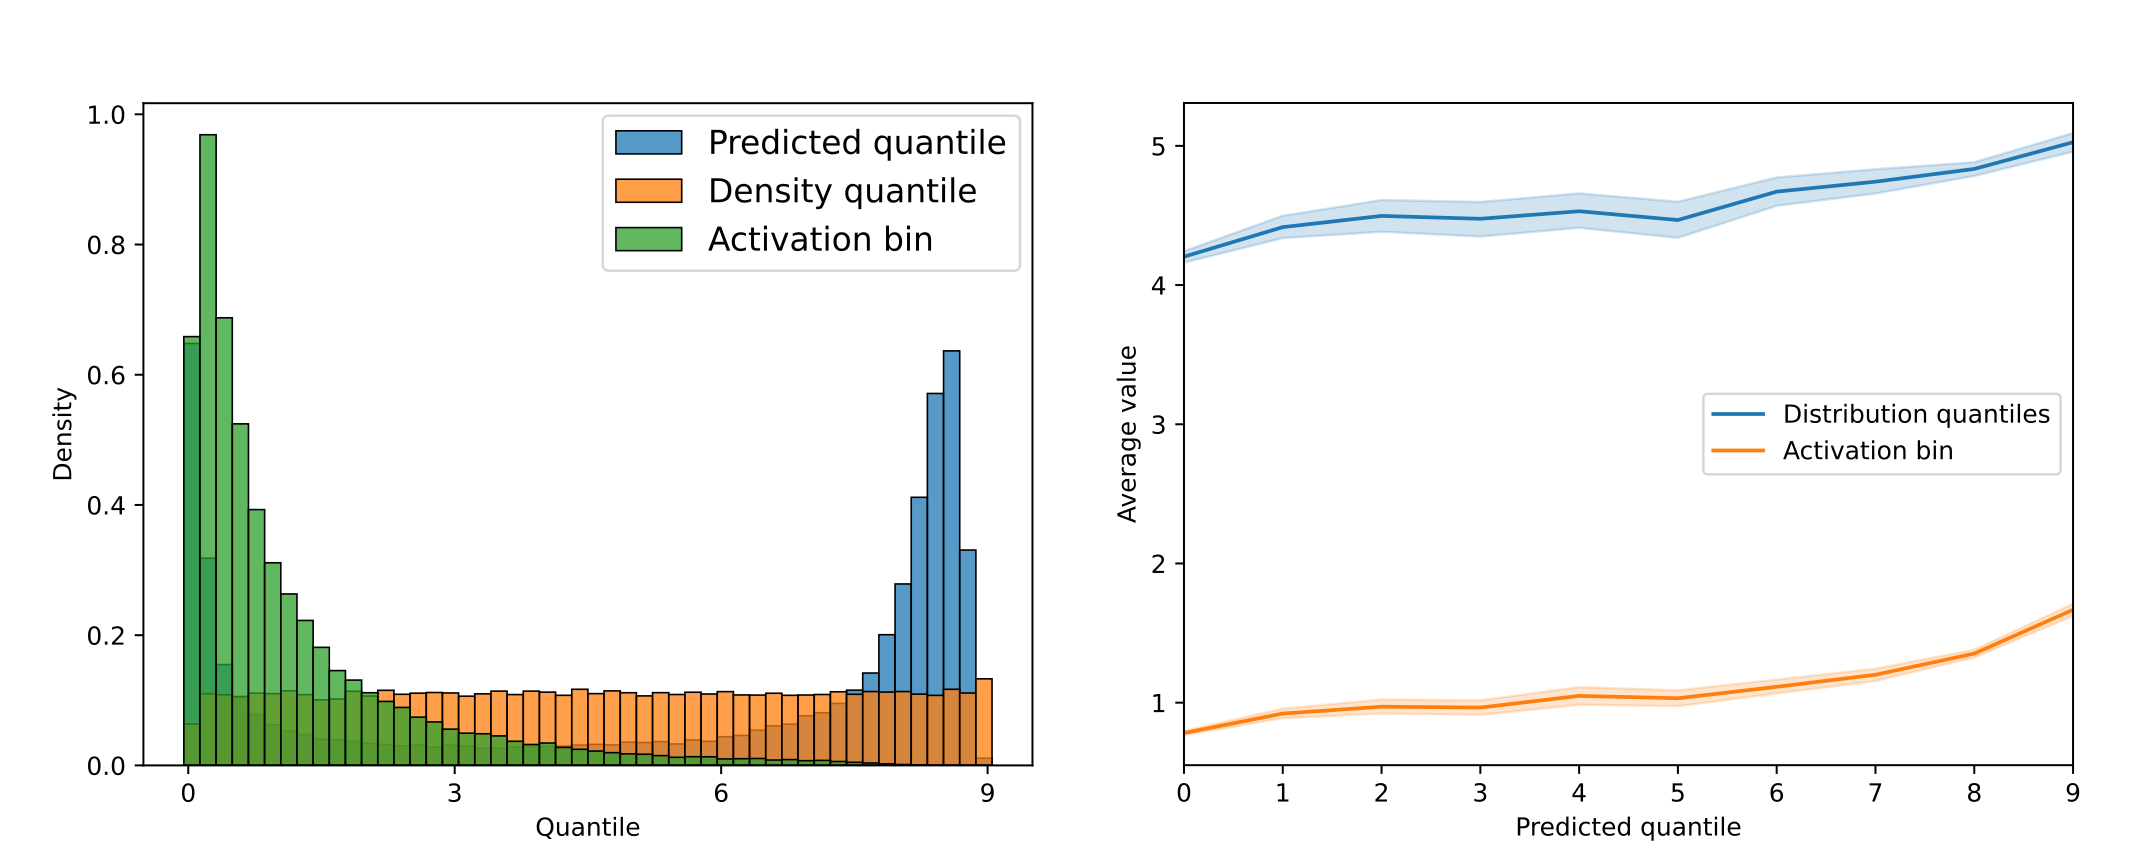
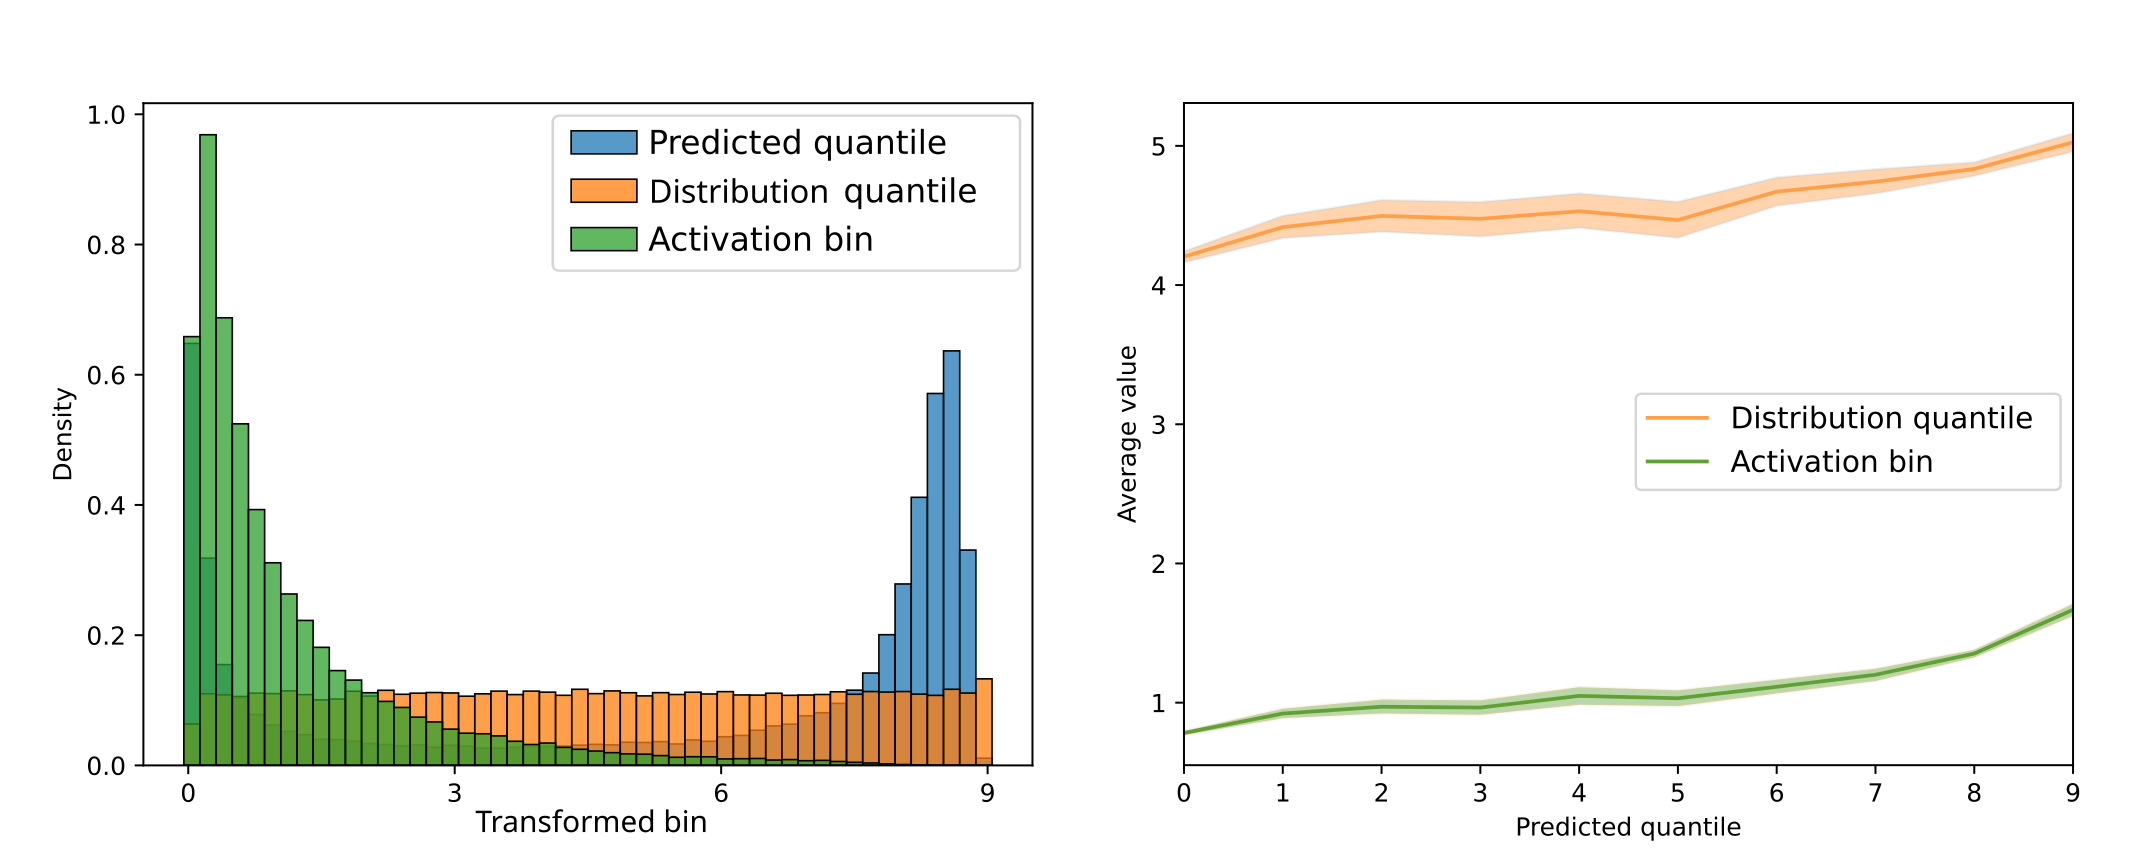
Updated with suggestions

diff --git a/content-blog/generating-text-using-nl-to-simulate-activations.md b/content-blog/generating-text-using-nl-to-simulate-activations.md
@@ -28,6 +28,10 @@ Unfortunately, the SAE itself cannot perfectly reconstruct the activations of th
 
 # How many latents are needed to recover the model behavior?
 
+- We aim to find a lower bound on what fraction of latents need to be recovered for near-SAE-g.t. performance
+- We find 50% of most active latents or 90% of random active latents give a good approximation of SAE g.t.
+- With current techniques, we found that this level of recall is difficult to achieve without swamping the signal with false positives, see section "Correctly identifying non-active latents"
+
 Adding a single SAE to the model already drops its performance significantly. [Gao et. al (2024)](https://arxiv.org/pdf/2406.04093) showed that the increase in loss from patching in their SAE - with 16 million latents - on GPT-4 is equivalent to having trained it with 90\% less compute. In this section we will consider the model with the SAE as the "ceiling" performance, assuming that we already are adding the SAE to the model and measuring how many of the active latents we need to correctly identify to recover the performance of the "patched" model.
 
 To measure this we collect the next-token predictions of Gemma 2 9b over a set of 100 sequences of 64 tokens each. For each token, we also compute the reconstructed activations from the SAE on the target layer - layer 11 in our case - and patch them back into the model, collecting the resulting next-token predictions. We then measure the cross-entropy loss of these predictions, as well as their KL divergence with respect to the original "clean" predictions. We consider these numbers to be our "full SAE" ceiling. We then repeat this process using only a fixed number of active latents, which we choose either from the top active latents or we sample from the whole distribution. Results are shown in Figure 1.
@@ -39,6 +43,11 @@ _Figure 1: KL divergence and CE loss for different fractions of correctly identi
 
 # Using latent interpretations to predict if they are active
 
+- We aim to find what is the recall of current interpretations to identify active latents, and what factors influence it.
+- We find that that the model is able to identify 50% of the most active latents, and that the recall is higher for more active latents.
+- This is sufficient to generate "coherent" text, but model's performance is significantly degraded.
+- Without significantly cheating, see next sections, this task is still out of reach.
+
 Knowing that it is possible for a model to "work" even when we don't correctly identify all the active latents, we focused on understanding how many of those latents could we correctly identify using our current interpretation approach. In our most [recent work](https://arxiv.org/pdf/2410.13928), we showed that our interpretations, when used to distinguish activating and non-activating examples, had a balanced accuracy of 76%, but that the accuracy could drop below 40% in the case of less active latents.
 
 We tasked Llama 3.1 8b with predicting if a certain latent is active or not for the last token of a sequence, given the interpretation of the latent. We sample these sequences from RedPajama-V2, and we always select sequences with 32 tokens, although we find that these results do not significantly change as long as the sequence is long enough. For each sequence, all the active latents and 1000 randomly selected inactive latents are shown to the model. Consistent with our previous results, we find that the model identifies the active latents more accurately if their activations are higher- see Figure 2 first panel. In this panel we compare interpretations that were generated using the highest activating contexts against interpretations that were generated by sampling from the different quantiles as described in the article above.
@@ -48,7 +57,7 @@ _Figure 2: Left panel: Accuracy on active latents as a function of their activat
 
 One problem with accuracy is that it is an all-or-nothing metric. If the model does not predict the activating latents exactly right, but predicts latents that are "similar" to the true active latents, we would like to capture that. We propose to measure the cosine similarity between the decoder directions of the predicted latents and the ground truth active latents. In order to do this, though, we need a way to "match" the predicted latents to the ground truth ones. We use the [Hungarian algorithm](https://en.wikipedia.org/wiki/Hungarian_algorithm) for this task, which yields the matching that maximizes the average cosine similarity between predicted and ground truth decoder directions. Intuitively, this is the most "forgiving" way of evaluating the model, and the same algorithm [has been used](https://arxiv.org/abs/2005.12872) to train neural networks to detect objects in images, where predicted bounding boxes need to be matched up with ground truth bounding boxes. The left panel of Figure 2 shows a histogram of the alignment, as measured by the average cosine similarity between the decoder directions of the predicted active latents and the ground truth active latents, for both interpretations based on the top most activating contexts (red) and interpretations based on every decile of the activation distribution (blue). As a baseline, we also show the distribution of the cosine similarities between randomly selected latents and the ground truth active latents (green).
 
-We investigated different ways to improve the fraction of correctly identified active latents: we used Llama 3.1 70b instead of Llama 3.1 8b, and found while Llama 70b was better at identifying the active latents, on average it still got less than 50\% of the active latents right. We also tried finetuning Llama 3.1 8b to predict active latents given interpretations. We find that while finetuning significantly improved the accuracy on non-active latents, it decreased the accuracy on active latents. This is a research direction that we want to explore more in the future, because different mixtures of finetuning data might improve the results. Perhaps the most surprising result is that giving the model access to either the fuzzing score or the detection score improves the accuracy on the active latents the most, moreso than using the 70b model, although this decreases the accuracy on the non-active latents compared with the 70b model, but not when compared with the Llama 3.1 8b model. 
+We investigated different ways to improve the fraction of correctly identified active latents: we used Llama 3.1 70b instead of Llama 3.1 8b, and found while Llama 70b was better at identifying the active latents, on average it still got less than 50\% of the active latents right. We also tried finetuning Llama 3.1 8b to predict active latents given interpretations. We find that while finetuning significantly improved the accuracy on non-active latents, it decreased the accuracy on active latents. This is a research direction that we want to explore more in the future, because different mixtures of finetuning data might improve the results. Perhaps the most surprising result is that giving the model access to either the fuzzing score or the detection score improves the accuracy on the active latents the most, more so than using the 70b model, although this decreases the accuracy on the non-active latents compared with the 70b model, but not when compared with the Llama 3.1 8b model. 
 
 | Method | Active Latent Accuracy (Recall) | F1 | AUC  | 
 |---------------|---------------------------|---------------------------|----------------|
@@ -72,16 +81,21 @@ Due to the fact that, even on this easier task, we are not able to have a satisf
 
 # Predicting the activation value with latent interpretations
 
+- We aim to find how well the model can predict the activation value of a latent given its interpretation.
+- Current techniques lead to very imbalanced predictions, which don't follow the target distributions.
+- There is a slight positive correlation between the predicted activation value and the activation value of the latent.
+
 The standard way people evaluate interpretations of latents is by doing [simulation](https://openaipublic.blob.core.windows.net/neuron-explainer/paper/index.html), where the model is tasked to predict the activation of the latent at different token positions and then the correlation between those values and the ground truth activations is used as a proxy for how good the interpretation is. We know from these results that models have a hard time predicting the activation values. Here we focus on the activation value at the last token of a sequence, and evaluate only the latents that are active. Once again this is "cheating", because we are only using latents that we know are active, but at this point we are just focusing on the feasibility of this simpler task rather than that of the real word scenario. 
 
-In this task we ask the model to predict a number, from 0 to 9, indicating how strongly the selected token is active, given the interpretation of the latent. We explicitly tell the model that the latent is active, but we show an example where the value is 0, due to rounding down. We compare the most likely number according the model (the [mode](https://en.wikipedia.org/wiki/Mode_(statistics))) for each latent with two different distributions: its activation value, un-normalized, its decile in the activation distribution. We find that the model predicts low and high values more frequently than the other values. We also compute the probability assigned to each of the 10 numbers and compute the mean prediction, and find that the distribution of means is very similar to the distribution of the modes. The distribution of the means is shown in blue in the left panel of Figure 4, and compared with the distribution of normalized activation values (green), and the distribution of the activation quantiles (orange). We observe that higher predicted values correspond to higher activation values and activation quantiles- see the right panel of Figure 4- but the spread is so large that it does not seem possible to reliably predict the activation value of a latent using the interpretations. In Table 2, we show that correlation between the predicted value and the activation value of the latent and the activation quantile is low for all the methods.
+In this task we ask the model to predict a number, from 0 to 9, indicating how strongly the selected token is active, given the interpretation of the latent. We explicitly tell the model that the latent is active. We compare the most likely number according the model (the [mode](https://en.wikipedia.org/wiki/Mode_(statistics))) for each latent with two different distributions: its activation value, and its quantile in the activation distribution. We find that the model predicts low and high values more frequently than the other values. We also compute the probability assigned to each of the 10 numbers and compute the mean prediction, and find that the distribution of means is very similar to the distribution of the modes. 
 
+The distribution of the means is shown in blue in the left panel of Figure 4, and compared with the distribution of normalized activation values (green), and the distribution of the activation quantiles (orange). We observe that higher predicted values correspond to higher activation values and activation quantiles- see the right panel of Figure 4- but the spread is so large that it does not seem possible to reliably predict the activation value of a latent using the interpretations. In Table 2, we show that correlation between the predicted value and the activation value of the latent and the activation quantile is low for all the methods.
 
 ![activation value prediction](/images/blog/generating-text-using-nl-to-simulate-activations/activation_prediction.png)
-_Figure 4: Left panel: Distribution of the predicted activation values (blue), compared with the true activation values normalized to the range [0, 9] (green). The distribution in orange is nearly uniform by construction since it is a discretized version of the [probability integral transform](https://en.wikipedia.org/wiki/Probability_integral_transform). Right panel: Average activation bin and average quantile of the predicted activation values for each predicted value, for the top interpretations, which have the highest correlation._
+_Figure 4: Left panel: Distribution of the predicted activation values (blue), compared with the true activation values normalized to the range [0, 9] (green). The distribution in orange is nearly uniform by construction since it is a discretized version of the [probability integral transform](https://en.wikipedia.org/wiki/Probability_integral_transform), it is also chosen to be in the same range. Right panel: Average activation bin and average quantile of the predicted activation values for each predicted value, for the top interpretations, which have the highest correlation._
 
 | Method | Correlation with activation bin | Correlation with distribution quantile |
-|---------------|---------------------------|---------------------------|----------------|
+|---------------|---------------------------|---------------------------|
 | Quantile interpretations| 0.16 | 0.09 | 
 | Top interpretations | 0.21 | 0.11 | 
 | With Fuzzing Score | 0.18 | 0.08 | 
@@ -91,13 +105,40 @@ _Table 2: Pearson correlation between the predicted activation value and the act
 
 # Correctly identifying non-active latents
 
-As we said above, current interpretations are better at identifying non-active latents than active latents. Still, because there are so many more non-active latents than active latents, the precision of current interpretations is low. To put things into perspective, around 50 latents are active at any given time for the chosen SAE, and because the SAE has 131k latents, identifying non-active latents correctly 90% of the time means that we incorrectly identify 13k latents as active, several orders of magnitude more than the number of active latents. This means that one needs to identify 99.9 to 99.99\% of non-active latents to not "overload" the reconstructions with false positives. If we threshold the probability at which we consider a latent to be active, such that we only consider the expected number of active latents to be 50, we find that most of the time no active latents are identified as active. In Figure 5 we show the predicted number of active latents as a function of the threshold. We find that the model is consistently overconfident and that even when selecting only the predictions where the model is more than 99.9\% confident, that would still correspond to about 170 active latents, more than 3 times the correct number, and that only 1% of the time a active latent in on that selection. If we set the threshold at 50%, 9000 latents are predicted to be active, and 40% of active features are correctly identified. This means that for this method to ever be successful the model has to be much more accurate at identifying non-active latents.
+- We aim to find the precision of current interpretations to identify non-active latents.
+- Despite identifying non-active latents correctly >90\% of the time, a precision closer to 99.9\% is needed to not overload the reconstructions with false positives.
+- The model is consistently overconfident in its predictions.
+- Computational efficient scores are predictive of whether a latent is correctly identified as either active or non-active.
+
+
+Current interpretations are better at identifying non-active latents than active latents. Still, because there are so many more non-active latents than active latents, the precision of current interpretations is low. To put things into perspective, around 50 latents are active at any given time for the chosen SAE, and because the SAE has 131k latents, identifying non-active latents correctly 90% of the time means that we incorrectly identify 13k latents as active, several orders of magnitude more than the number of active latents. This means that one needs to identify 99.9 to 99.99\% of non-active latents to not "overload" the reconstructions with false positives. If we threshold the probability at which we consider a latent to be active, such that we only consider the expected number of active latents to be 50, we find that most of the time no active latents are identified as active. In Figure 5 we show the predicted number of active latents as a function of the threshold. We find that the model is consistently overconfident and that even when selecting only the predictions where the model is more than 99.9\% confident, that would still correspond to about 170 active latents, more than 3 times the correct number, and that only 1% of the time a active latent in on that selection. If we set the threshold at 50%, 9000 latents are predicted to be active, and 40% of active features are correctly identified. This means that for this method to ever be successful the model has to be much more accurate at identifying non-active latents.
 
 ![threshold accuracy](/images/blog/generating-text-using-nl-to-simulate-activations/new_threshold_accuracy.png)
 _Figure 5: Accuracy of the model to identify non-active and active latents as a function of the threshold. We also report, for this particular method, the expected number of active latents given that threshold. We observe a clear trade-off between the accuracy of non-active and active latents, and that the accuracy of active latents significantly drops as we consider less and less possible active latents. Error bars correspond to 95\% confidence intervals._
 
-Finally, we find that the pre-computed scores - fuzzing and detection - are predictive of whether a latent is correctly identified as either active or non-active, see Figure 6, although the relation is not linear. This is a good verification that these simple scores are able to capture how good interpretations are, although the fact that these scores seem to saturate at both low and high values makes us think that there is still significant room for improvement.
+
+In our previous work we investigated computationally efficient methods for scoring latent interpretations. Here we find that they are predictive of whether a latent is correctly identified as either active or non-active, see Figure 6, although the relation is not linear. This is a good verification that these simple scores are able to capture how good interpretations are, although the fact that these scores seem to saturate at both low and high values makes us think that there is still significant room for improvement.
 
 ![scores predictiveness](/images/blog/generating-text-using-nl-to-simulate-activations/scores_accuracy.png)
 _Figure 6: Accuracy of the model to identify non-active and active latents as a function of the fuzzing and detection scores. The scores are rounded to 1 decimal place and averaged. Error bars correspond to 95\% confidence intervals._
 
+
+# Conclusion
+
+In this work, we explored several aspects of using natural language interpretations to simulate the activations of a sparse autoencoder. We found that:
+
+1. Current techniques struggle to accurately identify active latents, with precision around 40%.
+2. Predicting activation values using interpretations shows only weak correlations (0.1-0.2) with actual values, suggesting that current interpretations don't fully capture the quantitative aspects of latent behavior.
+3. While models are good at identifying non-active latents (>90% accuracy), this isn't sufficient given the extreme imbalance between active and non-active latents. We would need 99.9%+ accuracy to avoid overwhelming the reconstructions with false positives.
+4. Computationally efficient scoring methods like fuzzing and detection scores show promise in evaluating interpretation quality, though their non-linear relationship with accuracy suggests room for improvement.
+
+These results indicate that while natural language interpretations provide some insight into latent behavior, they are not yet reliable enough to simulate model activations. Future work should focus on improving interpretation precision for non-active latents and developing better methods to capture quantitative aspects of latent behavior. Additionally, the development of more sophisticated scoring methods could help better evaluate and improve interpretation quality.
+
+## Acknowledgements
+
+We would like to thank David Johnston for his helpful feedback. 
+
+
+## Contributions 
+
+Nora and Gonçalo had the idea for these experiments. Gonçalo executed the experiments and wrote the first draft of the article. Nora provided feedback and did significant revisions. 
